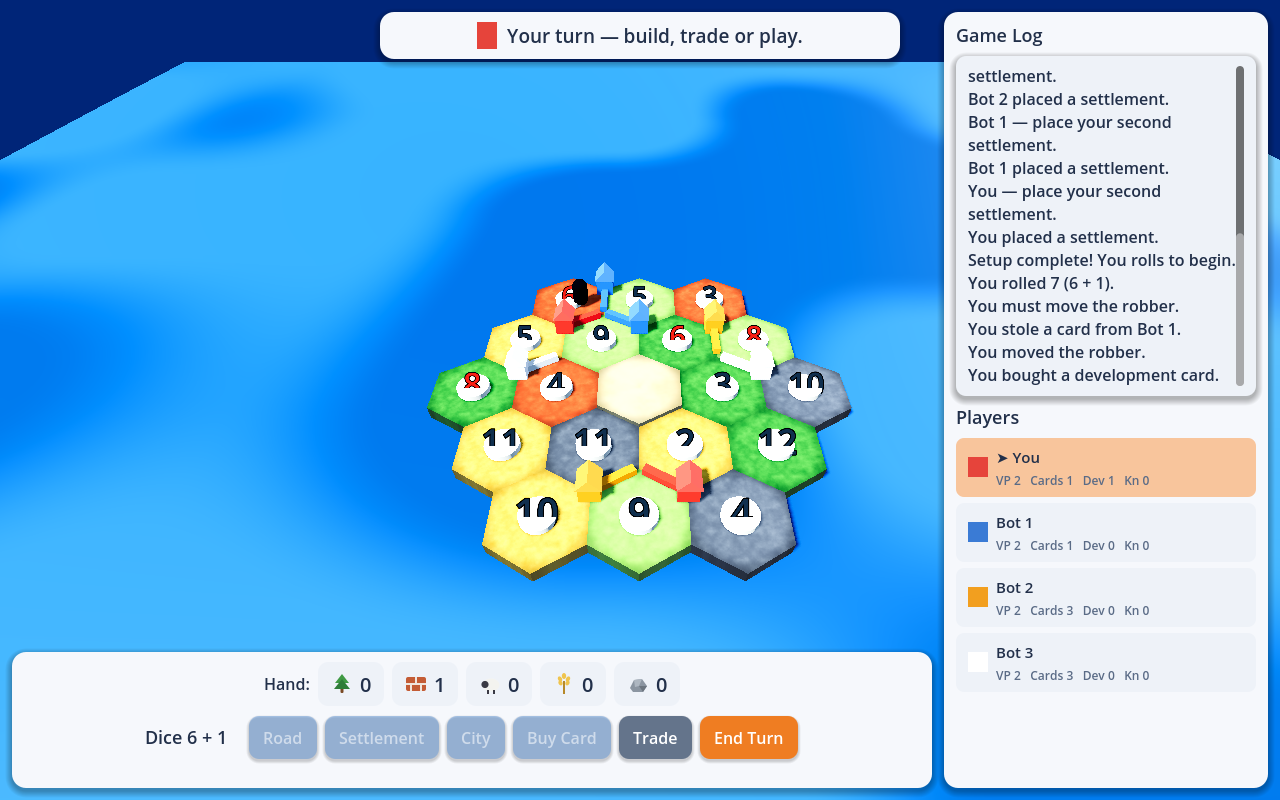
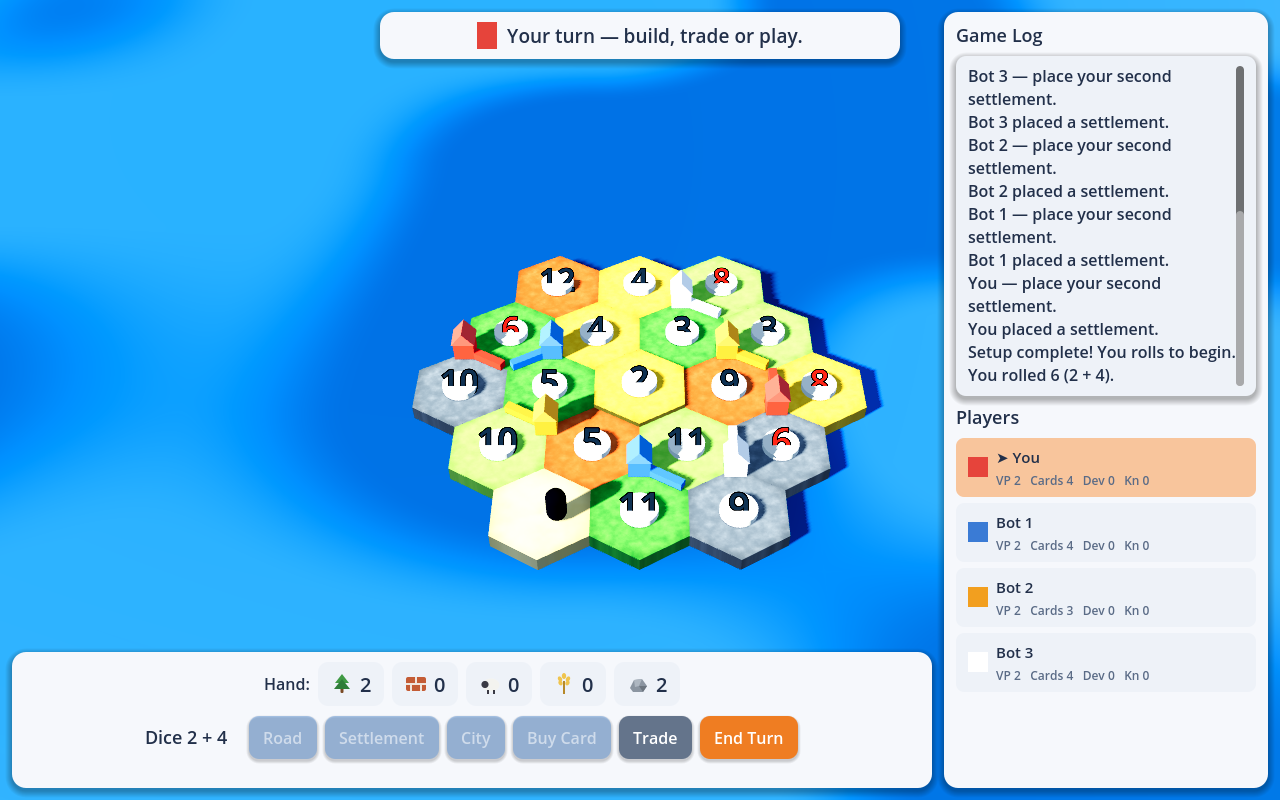
Toy-box environment pass: Forward+, dramatic low-sun shadows, SSAO, diorama cam
Switch the default renderer to Forward+ (Vulkan) so the premium effects actually
run; mobile/web keep the Compatibility fallback. Custom shaders run on both.

Lighting (Game3DWorld._setup_light):
- Low-angle warm-cream key sun for long, dramatic raking shadows; small angular
  distance for distinct geometric shadow edges, plus a soft cool fill light.
- project.godot: 4096 directional shadow map, high soft-shadow filter quality,
  4x MSAA for clean toy edges.

Environment (Game3DWorld._setup_environment):
- SSAO pushed hard (intensity 4, radius 1.5, power 2) for deep, rich contact
  shadows in the seams between the chunky tiles.
- ACES tonemap + color grading: saturation 1.15, contrast 1.08, exposure 0.95.
- Subtle bloom. (SSAO/glow guarded behind a Vulkan RenderingDevice.)

Materials (BoardView3D._terrain_material):
- Polished satin cartoon finish (roughness ~0.4–0.5; Ore glossier/metallic) and
  bright saturated colors (lush forest green, terracotta brick, golden wheat).
  Eased off the in-shader edge darken since SSAO now does the crevices.

Camera (CameraRig3D):
- Tight 47° isometric tilt, low FOV (40) with extra pull-back for an
  orthographic-like telephoto "miniature diorama" feel.

Core rules engine + networking untouched. Verified: clean import and a GL-
fallback render/live run with no errors (SSAO/bloom/grading require Forward+).

Claude-Session: https://claude.ai/code/session_01EeaUzE1kz2DtZ3Ndp3Eh8x

diff --git a/godot/README.md b/godot/README.md
@@ -73,13 +73,18 @@ Camera (`CameraRig3D`): isometric ~55° tabletop view, **WASD / arrows** or
 
 ### Renderer note (for the full toy look)
 
-The project ships on **gl_compatibility** so it runs everywhere. For the premium
-look — **SSAO**, **glow/bloom**, and **depth of field** — switch
-`Project → Project Settings → Rendering → Renderer → Rendering Method` to
-**Forward+**. Those effects are enabled automatically when a Vulkan
-`RenderingDevice` is present (see `Game3DWorld._setup_environment` /
-`CameraRig3D`); soft directional shadows and the bright sky/ambient work on both
-renderers.
+The project ships on **Forward+** (Vulkan) for the premium "toy-box diorama"
+look: deep **SSAO** crevices between tiles, **bloom**, ACES color grading with a
+saturation/contrast pop, soft low-angle directional shadows, and a low-FOV
+telephoto camera. These all live in `Game3DWorld._setup_environment` /
+`_setup_light` and `CameraRig3D`.
+
+SSAO/glow are guarded behind a Vulkan `RenderingDevice`, and the custom shaders
+also run on the **Compatibility (GLES3)** renderer, so if you need to target
+web / very old GPUs you can switch `Project Settings → Rendering → Renderer →
+Rendering Method` back to **gl_compatibility** (or launch with
+`--rendering-method gl_compatibility`); you'll keep the camera, shadows,
+materials and colors but lose SSAO/glow.
 
 ## Game modes
 